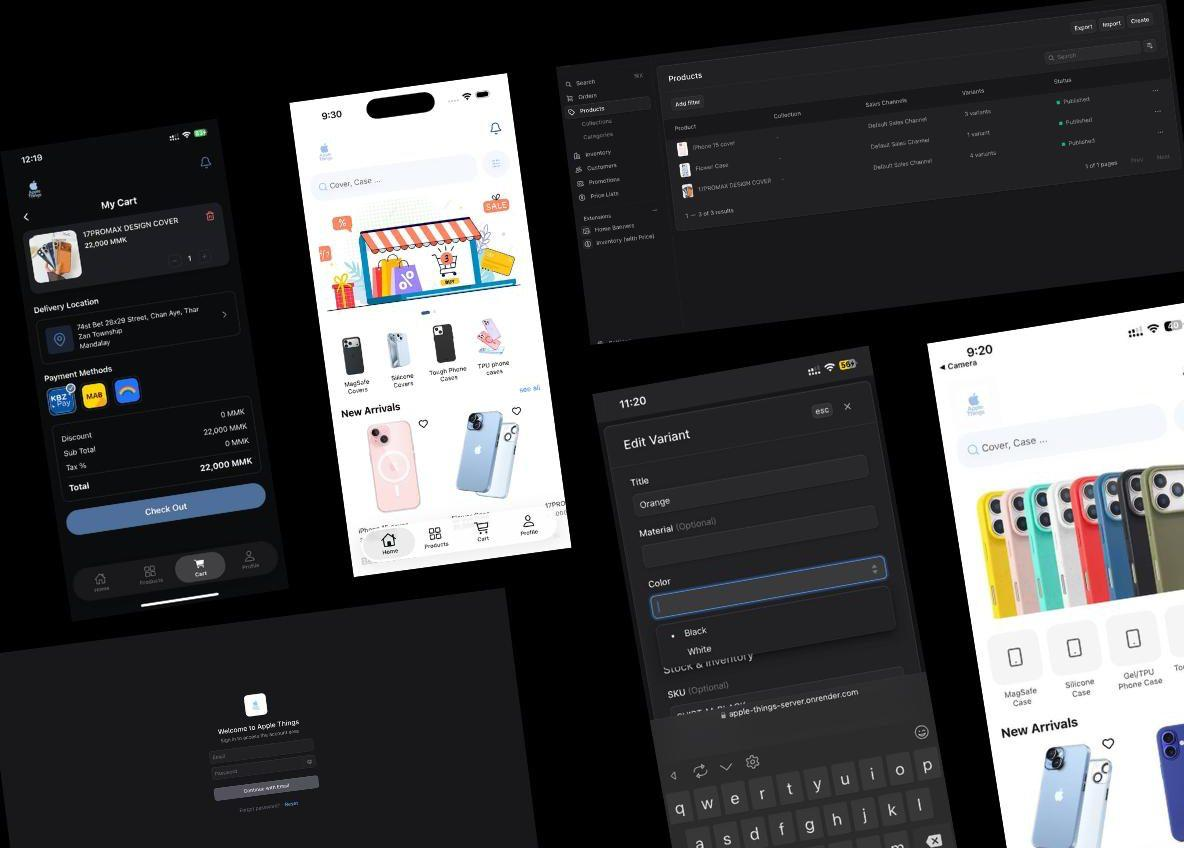
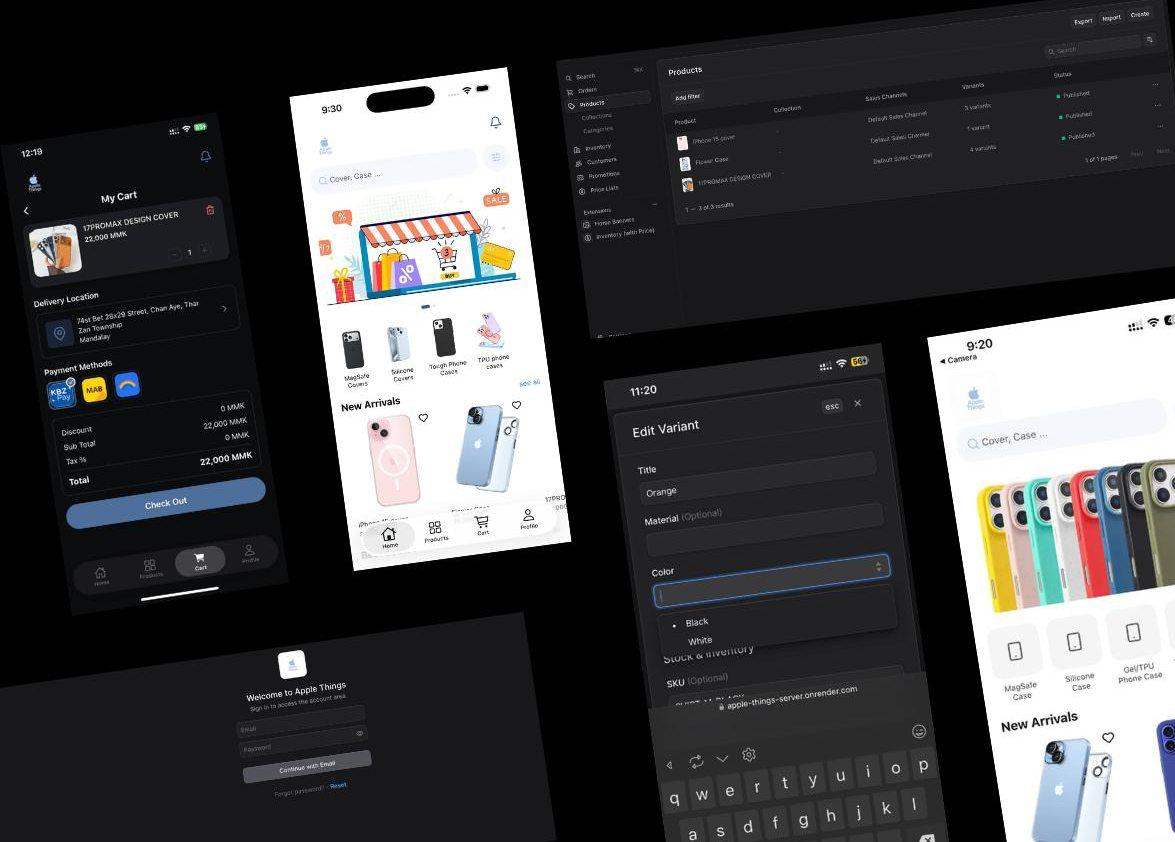
update

diff --git a/src/index.css b/src/index.css
@@ -579,19 +579,18 @@
   display: flex;
   flex-direction: column;
   overflow: hidden;
-  border-radius: 16px 16px 0 0;
+  border-radius: 16px;
   background: #000000;
   box-shadow: 0 12px 40px rgba(0, 0, 0, 0.3);
-  padding: 18px 18px 0;
+  padding: 14px 14px 0;
   transition: transform 0.45s cubic-bezier(0.22, 1, 0.36, 1),
     box-shadow 0.45s cubic-bezier(0.22, 1, 0.36, 1);
   will-change: transform;
 }
 
 .project-card:hover {
-  transform: translateY(-8px);
-  border-color: rgba(7, 95, 228, 0.3);
-  box-shadow: 0 28px 70px rgba(0, 0, 0, 0.35), 0 0 0 1px rgba(7, 95, 228, 0.12);
+  transform: translateY(-4px);
+  box-shadow: 0 28px 70px rgba(0, 0, 0, 0.35);
 }
 
 .portfolio-staggered:hover .project-card,
@@ -611,7 +610,7 @@
   display: flex;
   flex-direction: row;
   flex-wrap: wrap;
-  gap: 10px;
+  gap: 8px;
   justify-content: flex-end;
 }
 
@@ -619,19 +618,20 @@
   display: inline-flex;
   align-items: center;
   justify-content: center;
-  height: 40px;
-  padding: 0 20px;
-  border-radius: 12px;
-  background: rgba(97, 114, 138, 0.75);
+  height: 34px;
+  padding: 0 16px;
+  border-radius: 9999px;
+  background: rgba(255, 255, 255, 0.06);
+  border: 1px solid rgba(255, 255, 255, 0.1);
   color: #ffffff;
-  font-size: 14px;
+  font-size: 13px;
   font-weight: 600;
   white-space: nowrap;
   transition: background-color 0.3s ease, transform 0.3s ease;
 }
 
 .project-card-category-pill.category-blue {
-  background: rgba(7, 95, 228, 0.85);
+  background: rgba(255, 255, 255, 0.06);
 }
 
 .project-card:hover .project-card-category-pill {
@@ -641,16 +641,16 @@
 .project-card-brand {
   display: flex;
   align-items: center;
-  gap: 10px;
-  margin-top: 12px;
+  gap: 8px;
+  margin-top: 6px;
 }
 
 .project-card-brand-icon {
   display: inline-flex;
   align-items: center;
   justify-content: center;
-  width: 36px;
-  height: 36px;
+  width: 30px;
+  height: 30px;
   border-radius: 50%;
   background: rgba(255, 255, 255, 0.08);
   color: var(--text-secondary);
@@ -665,36 +665,39 @@
 
 .project-card-brand-name {
   color: var(--text-primary);
-  font-size: 14px;
+  font-size: 13px;
   font-weight: 600;
   line-height: 1.3;
 }
 
 .project-card-title {
-  margin-top: 8px;
+  margin-top: 4px;
   color: var(--text-primary);
-  font-size: clamp(22px, 2.5vw, 32px);
+  font-size: clamp(20px, 2.2vw, 28px);
   line-height: 1.1;
   letter-spacing: -0.03em;
 }
 
 .project-card-description {
-  margin-top: 8px;
+  margin-top: 4px;
   color: var(--text-secondary);
-  font-size: 13px;
-  line-height: 1.5;
+  font-size: 12px;
+  line-height: 1.4;
 }
 
 .project-card-tags {
   display: flex;
   flex-wrap: wrap;
-  gap: 6px;
-  margin-top: 12px;
+  gap: 5px;
+  margin-top: 8px;
+  padding-bottom: 8px;
+  position: relative;
+  z-index: 10;
 }
 
 .project-card-media-3d {
   position: relative;
-  margin-top: 10px;
+  margin-top: 8px;
   min-height: 200px;
   overflow: visible;
 }
@@ -798,10 +801,11 @@
 
 .project-card-media {
   position: relative;
-  margin-top: 3px;
-  margin-left: -18px;
-  margin-right: -18px;
-  height: 350px;
+  margin-top: 4px;
+  margin-left: -14px;
+  margin-right: -14px;
+  margin-bottom: -14px;
+  height: 380px;
   overflow: visible;
 }
 
@@ -820,14 +824,15 @@
 .tag-badge {
   display: inline-flex;
   align-items: center;
-  min-height: 28px;
-  padding: 0 12px;
+  min-height: 24px;
+  padding: 0 10px;
   border-radius: 9999px;
-  background: rgba(255, 255, 255, 0.04);
-  border: 1px solid rgba(255, 255, 255, 0.06);
+  background: rgba(255, 255, 255, 0.06);
+  border: 1px solid rgba(255, 255, 255, 0.1);
   color: var(--text-secondary);
-  font-size: 12px;
+  font-size: 11px;
   font-weight: 500;
+  backdrop-filter: blur(10px);
 }
 
 .utility-grid {
@@ -1586,11 +1591,11 @@
   }
 
   .project-card {
-    padding: 16px 16px 0;
+    padding: 12px 12px 0;
   }
 
   .project-card-media-3d {
-    margin-top: 10px;
+    margin-top: 6px;
     min-height: 180px;
   }
 
@@ -1621,8 +1626,11 @@
   }
 
   .project-card-media {
-    margin-top: 20px;
-    height: 300px;
+    margin-top: -3px;
+    margin-left: -12px;
+    margin-right: -12px;
+    margin-bottom: -12px;
+    height: 320px;
   }
 
   .hero-title {

diff --git a/src/components/ProjectsSection.jsx b/src/components/ProjectsSection.jsx
@@ -27,7 +27,7 @@ const projects = [
     tags: ["Phaser 3", "Babylon.js", "Socket.IO", "Node.js"],
     categories: ["Phaser 3", "Babylon.js"],
     demoUrl: "#",
-    githubUrl: "https://github.com/kaungkhanthein1/zawgyi-mythic-run",
+    githubUrl: "https://zawgyigame.onrender.com/",
     description: "A 2D/3D side-scrolling multiplayer game featuring a Myanmar alchemist with Levitate, Staff Strike, and Alchemic Pill abilities.",
   },
   {

diff --git a/src/data/portfolioContent.jsx b/src/data/portfolioContent.jsx
@@ -74,7 +74,7 @@ export const projects = [
       { label: "Babylon.js", color: "gray" },
     ],
     icon: <Swords size={24} />,
-    href: "https://github.com/kaungkhanthein1/zawgyi-mythic-run",
+    href: "https://zawgyigame.onrender.com/",
   },
   {
     title: "AppleThings",
